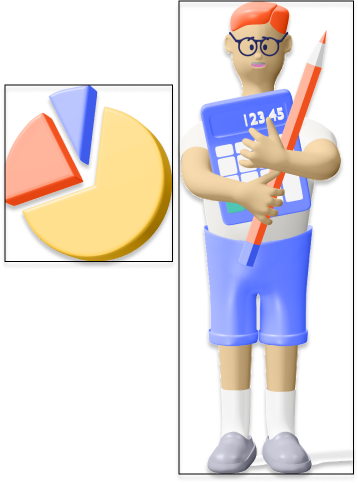
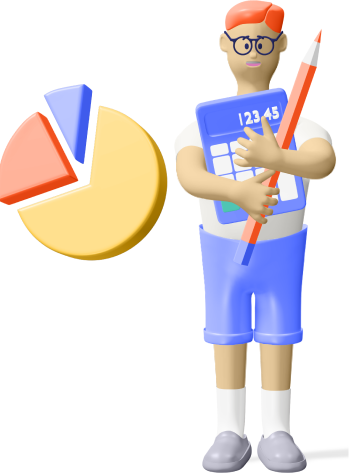
Add files via upload

Changed region(s): [[0.0, 0.0, 1.0, 1.0], [0.3438, 0.2368, 0.4011, 0.2664], [0.659, 0.5624, 0.6877, 0.592]]

diff --git a/index.html b/index.html
@@ -59,8 +59,7 @@
     </section>
     <section class="container subscribe">
         <div>
-            <img src="./img/secondmen1.png" alt="">
-            <img src="./img/secondmen2.png" alt="">
+            <img src="./img/secondmen.png" alt="">
         </div>
         <div>
             <h2 class="subscribe_title">
